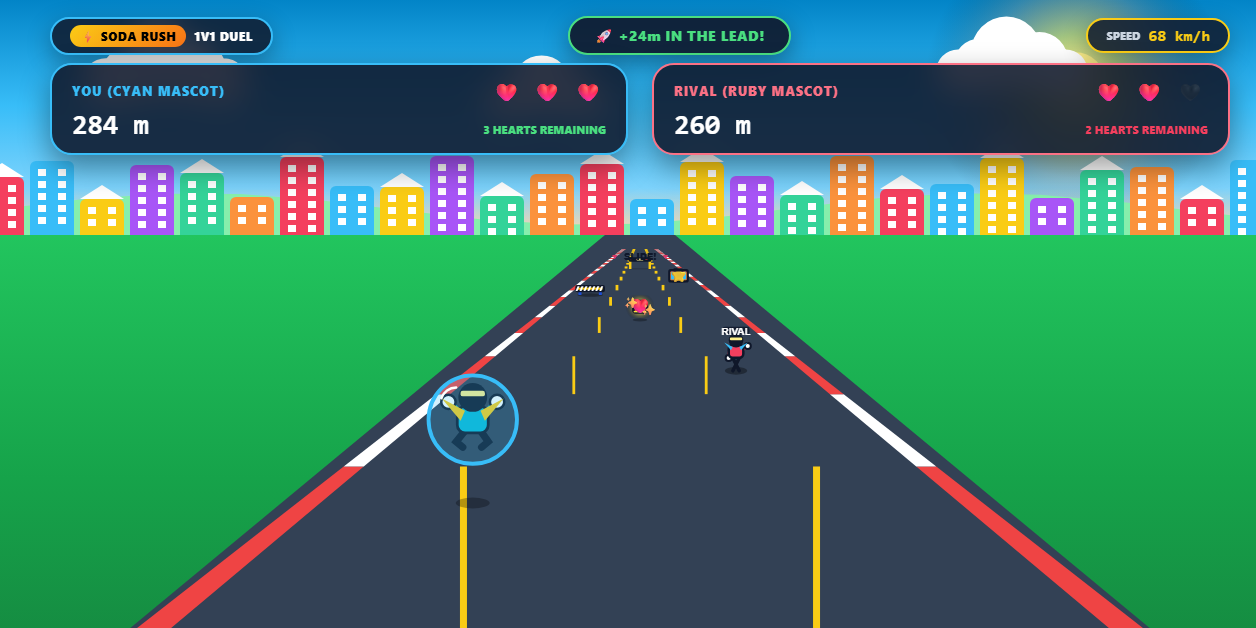
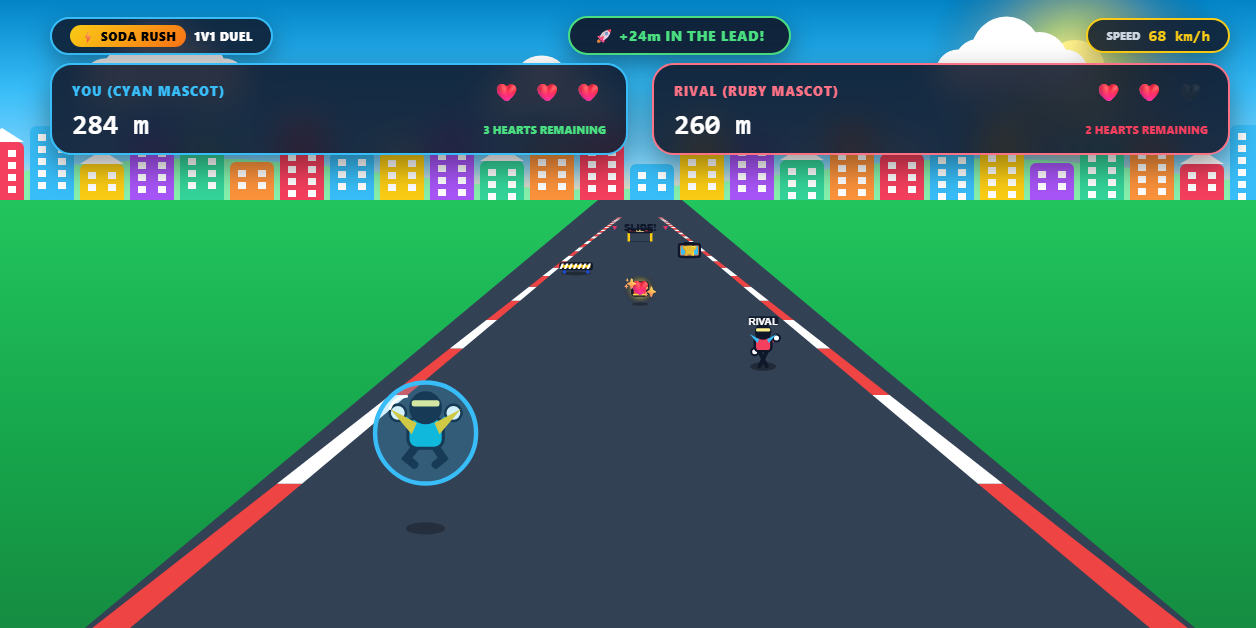
feat(soda-dash): remove middle yellow road stripes and increase camera zoom-in

diff --git a/src/games/soda-dash/renderers/SodaDashRenderer.ts b/src/games/soda-dash/renderers/SodaDashRenderer.ts
@@ -29,7 +29,7 @@ export class SodaDashRenderer {
   private floatingTexts: FloatingText[] = [];
 
   // Visual layout constants
-  private horizonRatio: number = 0.33;
+  private horizonRatio: number = 0.28;
 
   constructor(canvas: HTMLCanvasElement, engine: SodaDashEngine) {
     this.canvas = canvas;
@@ -78,8 +78,8 @@ export class SodaDashRenderer {
     const horizonY = height * this.horizonRatio;
     const vanishX = width * 0.5;
 
-    // Camera follows player distance with a fixed follow distance
-    const cameraZ = this.engine.player.distance - 4.5;
+    // Camera follows player distance with a closer, more zoomed-in follow distance
+    const cameraZ = this.engine.player.distance - 3.4;
 
     // 1. Draw Sky & Parallax City Skyline
     this.drawSkyAndSkyline(ctx, width, height, horizonY, cameraZ);
@@ -228,7 +228,7 @@ export class SodaDashRenderer {
     vanishX: number,
     cameraZ: number
   ): void {
-    const roadHalfWidthBottom = width * 0.485;
+    const roadHalfWidthBottom = width * 0.52;
 
     // Lush Emerald Lawn Shoulders
     const grassGrad = ctx.createLinearGradient(0, horizonY, 0, height);
@@ -257,15 +257,15 @@ export class SodaDashRenderer {
 
     // Base Clean Slate Asphalt
     ctx.beginPath();
-    ctx.moveTo(vanishX - 35, horizonY);
-    ctx.lineTo(vanishX + 35, horizonY);
+    ctx.moveTo(vanishX - 42, horizonY);
+    ctx.lineTo(vanishX + 42, horizonY);
     ctx.lineTo(vanishX + roadHalfWidthBottom, height);
     ctx.lineTo(vanishX - roadHalfWidthBottom, height);
     ctx.closePath();
     ctx.fillStyle = '#334155'; // Smooth Vibrant Slate Track
     ctx.fill();
 
-    // Scrolling Curb Strips & Road Segments
+    // Scrolling Curb Strips & Road Segments (Clean road: NO yellow middle stripes)
     const segmentLength = 2.5;
     const startSegment = Math.floor(cameraZ / segmentLength);
 
@@ -285,8 +285,8 @@ export class SodaDashRenderer {
       // Curbs: Playful Candy Red & White Stripes
       const halfW1 = roadHalfWidthBottom * p1.scale;
       const halfW2 = roadHalfWidthBottom * p2.scale;
-      const curbW1 = Math.max(4, 42 * p1.scale);
-      const curbW2 = Math.max(4, 42 * p2.scale);
+      const curbW1 = Math.max(4, 46 * p1.scale);
+      const curbW2 = Math.max(4, 46 * p2.scale);
 
       ctx.fillStyle = isOdd ? '#ef4444' : '#ffffff';
 
@@ -305,17 +305,6 @@ export class SodaDashRenderer {
       ctx.lineTo(vanishX + halfW1 - curbW1, p1.y);
       ctx.lineTo(vanishX + halfW1, p1.y);
       ctx.fill();
-
-      // Dashed lane divider lines (Bright Sunshine Yellow)
-      if (isOdd) {
-        ctx.fillStyle = '#facc15';
-        for (const l of [-0.5, 0.5]) {
-          const lp1 = this.projectPoint(l, 0, relZ1, width, height, horizonY, vanishX);
-          const lp2 = this.projectPoint(l, 0, relZ2, width, height, horizonY, vanishX);
-          const lw = Math.max(2.8, 8 * p1.scale);
-          ctx.fillRect(lp1.x - lw * 0.5, lp2.y, lw, Math.max(1, lp1.y - lp2.y));
-        }
-      }
     }
   }
 
@@ -1003,11 +992,11 @@ export class SodaDashRenderer {
     horizonY: number,
     vanishX: number
   ): { x: number; y: number; scale: number } {
-    const minZ = 2.1;
-    const roadHalfWidthBottom = width * 0.485;
-    const laneSpacingBottom = roadHalfWidthBottom * 0.65;
+    const minZ = 2.4;
+    const roadHalfWidthBottom = width * 0.52;
+    const laneSpacingBottom = roadHalfWidthBottom * 0.68;
     const normScale = minZ / Math.max(0.1, relZ);
-    const y = horizonY + (height - horizonY) * normScale - trackY * 125 * normScale;
+    const y = horizonY + (height - horizonY) * normScale - trackY * 135 * normScale;
     const x = vanishX + (laneX * laneSpacingBottom) * normScale;
 
     return { x, y, scale: normScale };
